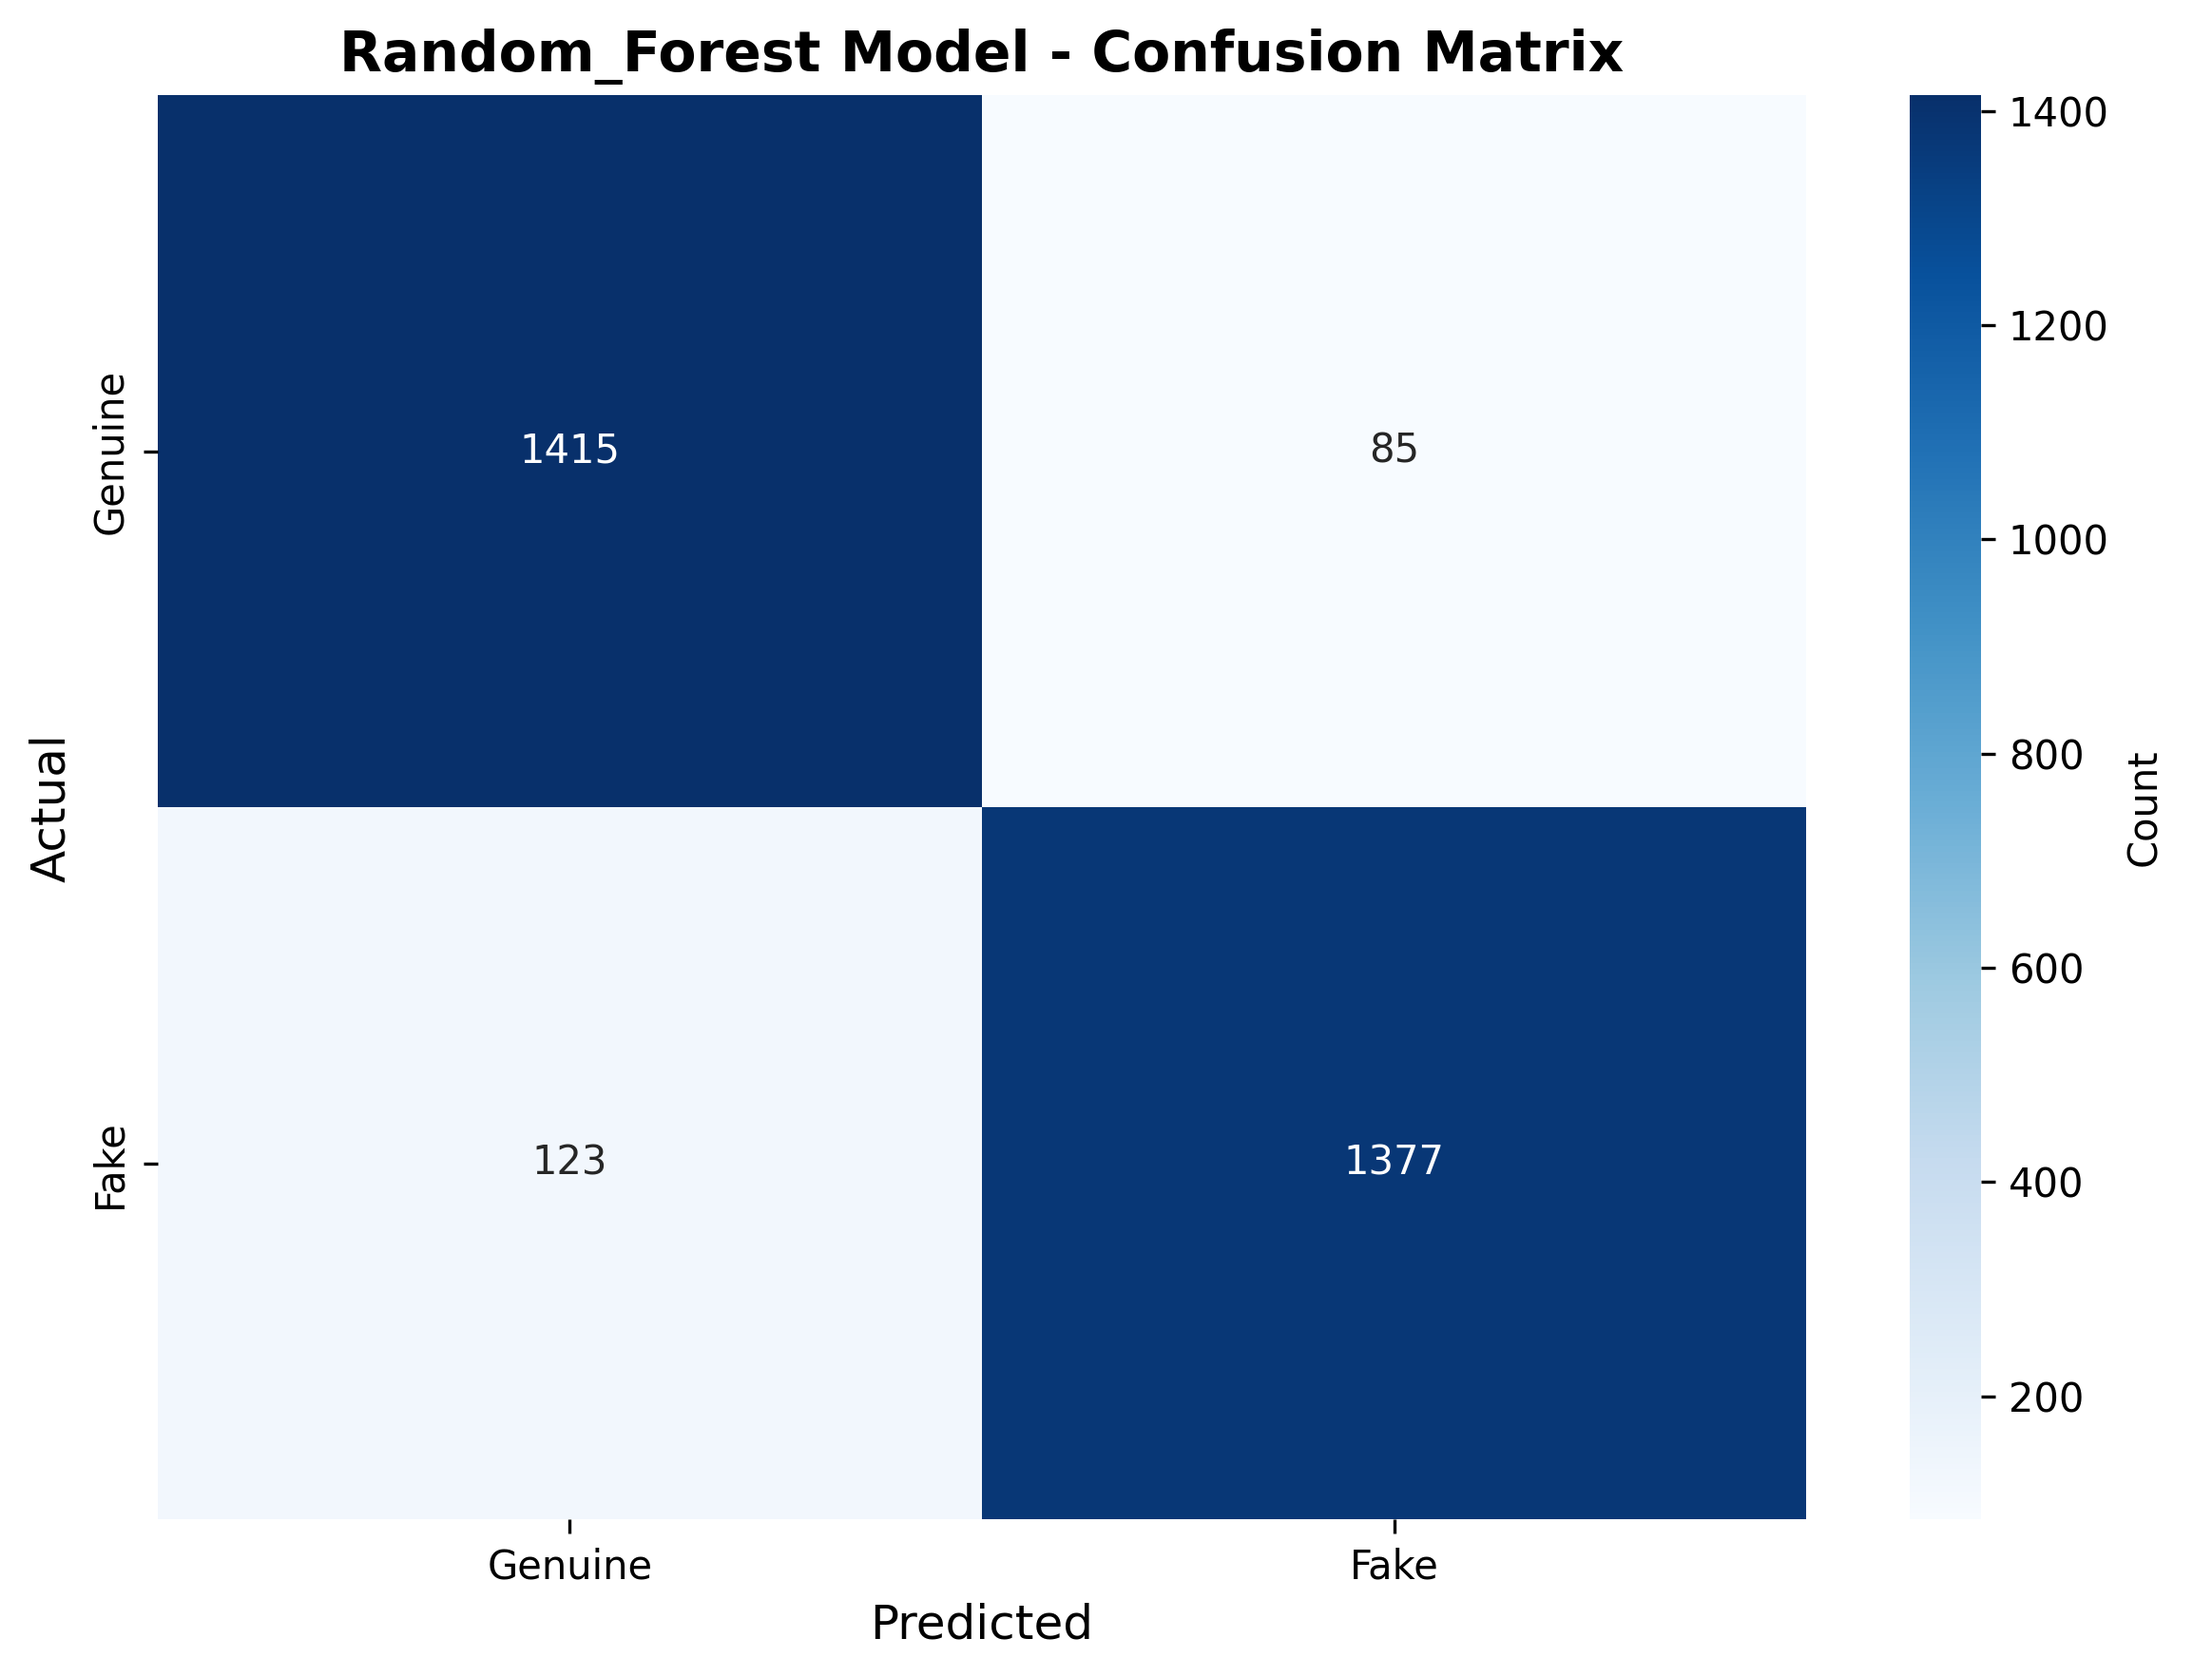
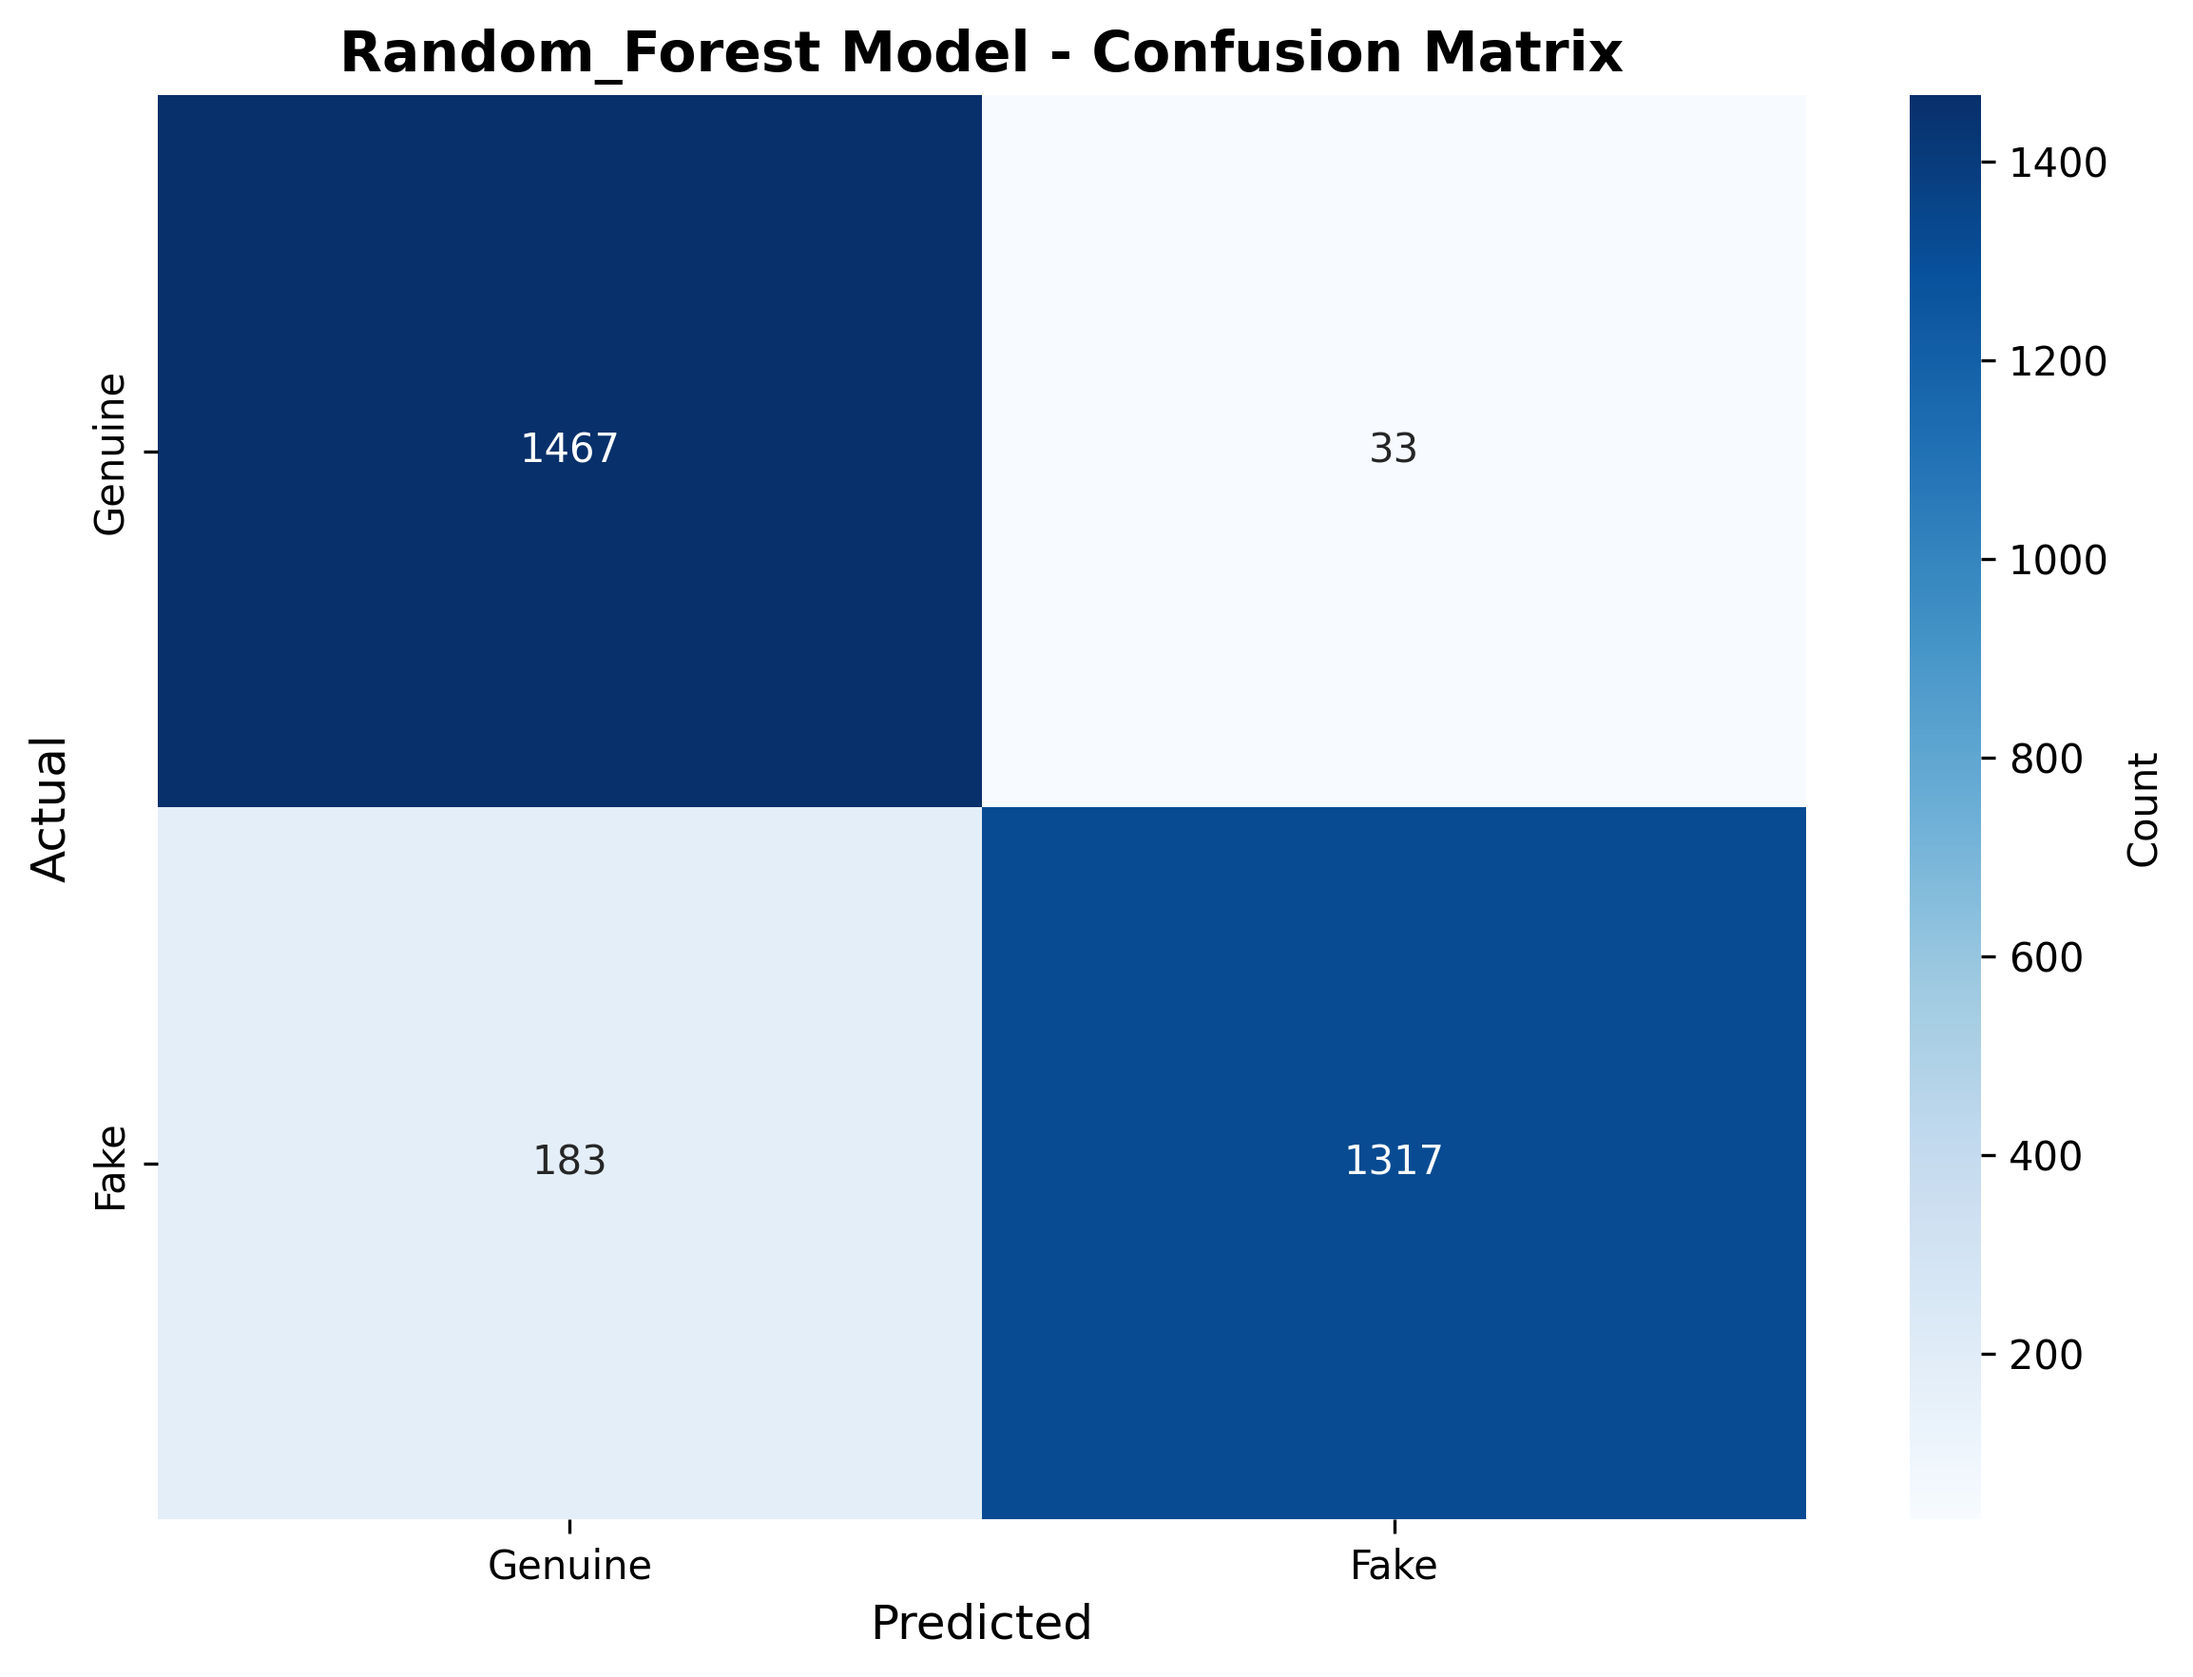
removed non significant features on svm and rf

diff --git a/reviewai/utils/fake_review_detector2.py b/reviewai/utils/fake_review_detector2.py
@@ -56,9 +56,9 @@ class FakeReviewDetector:
 
     def _load_traditional_models(self):
         try:
-            svm_path = os.path.join(self.model_folder, 'svm_model_new_with_extra.pkl')
-            rf_path = os.path.join(self.model_folder, 'rf_model_new_with_extra.pkl')
-            tfidf_path = os.path.join(self.model_folder, 'tfidf_vectorizer_new_length.pkl')
+            svm_path = os.path.join(self.model_folder, 'svm_model_significant.pkl')
+            rf_path = os.path.join(self.model_folder, 'rf_model_significant.pkl')
+            tfidf_path = os.path.join(self.model_folder, 'tfidf_vectorizer_new_length_2.pkl')
 
             for path, name in [(svm_path, 'SVM'), (rf_path, 'Random Forest'), (tfidf_path, 'TF-IDF')]:
                 if not os.path.exists(path):
@@ -144,20 +144,11 @@ class FakeReviewDetector:
             length_bucket = 2
         else:
             length_bucket = 3
-        # Emoji count
-        emoji_pattern = re.compile(
-            "[" 
-            "\U0001F600-\U0001F64F"
-            "\U0001F300-\U0001F5FF"
-            "\U0001F680-\U0001F6FF"
-            "\U0001F1E0-\U0001F1FF"
-            "]+", flags=re.UNICODE
-        )
-        emoji_count = len(emoji_pattern.findall(raw_text))
-        # Keyword flags
-        keyword_flags = [1 if kw in processed_text else 0 for kw in self.keywords]
-        # Stack features in correct order
-        extra_features = np.array([review_length, sentiment, length_bucket, emoji_count] + keyword_flags).reshape(1, -1)
+        # Only keep significant keywords
+        significant_keywords = ['fast', 'recommended', 'bad', 'fake', 'original', 'authentic']
+        keyword_flags = [1 if kw in processed_text else 0 for kw in significant_keywords]
+        # Stack features
+        extra_features = np.array([review_length, sentiment, length_bucket] + keyword_flags).reshape(1, -1)
         return extra_features
 
     def predict_single_review(self, review_text):
@@ -249,31 +240,31 @@ class FakeReviewDetector:
     
     def get_model_performance(self):
         """
-        Returns performance metrics for all models and ensemble
+        Returns updated performance metrics for all models and ensemble
         """
         return {
             'ensemble': {
-                'accuracy': 0.95,
-                'precision': 0.95,
-                'recall': 0.95,
-                'f1_score': 0.95,
+                'accuracy': 0.94,
+                'precision': 0.94,
+                'recall': 0.94,
+                'f1_score': 0.94,
                 'support': 3000,
-                'confusion_matrix': [[1399, 101], [54, 1446]],
+                'confusion_matrix': [[1384, 116], [75, 1425]],
                 'classification_report': {
-                    'genuine': {'precision': 0.96, 'recall': 0.93, 'f1-score': 0.95, 'support': 1500},
-                    'fake': {'precision': 0.93, 'recall': 0.96, 'f1-score': 0.95, 'support': 1500}
+                    'genuine': {'precision': 0.95, 'recall': 0.92, 'f1-score': 0.94, 'support': 1500},
+                    'fake': {'precision': 0.92, 'recall': 0.95, 'f1-score': 0.94, 'support': 1500}
                 }
             },
             'svm': {
-                'accuracy': 0.85,
-                'precision': 0.85,
-                'recall': 0.85,
-                'f1_score': 0.85,
+                'accuracy': 0.87,
+                'precision': 0.87,
+                'recall': 0.87,
+                'f1_score': 0.87,
                 'support': 3000,
-                'confusion_matrix': [[1160, 340], [119, 1381]],
+                'confusion_matrix': [[1320, 180], [196, 1304]],
                 'classification_report': {
-                    'genuine': {'precision': 0.91, 'recall': 0.77, 'f1-score': 0.83, 'support': 1500},
-                    'fake': {'precision': 0.80, 'recall': 0.92, 'f1-score': 0.86, 'support': 1500}
+                    'genuine': {'precision': 0.87, 'recall': 0.88, 'f1-score': 0.88, 'support': 1500},
+                    'fake': {'precision': 0.88, 'recall': 0.87, 'f1-score': 0.87, 'support': 1500}
                 }
             },
             'random_forest': {
@@ -282,22 +273,22 @@ class FakeReviewDetector:
                 'recall': 0.93,
                 'f1_score': 0.93,
                 'support': 3000,
-                'confusion_matrix': [[1415, 85], [123, 1377]],
+                'confusion_matrix': [[1467, 33], [183, 1317]],
                 'classification_report': {
-                    'genuine': {'precision': 0.92, 'recall': 0.94, 'f1-score': 0.93, 'support': 1500},
-                    'fake': {'precision': 0.94, 'recall': 0.92, 'f1-score': 0.93, 'support': 1500}
+                    'genuine': {'precision': 0.89, 'recall': 0.98, 'f1-score': 0.93, 'support': 1500},
+                    'fake': {'precision': 0.98, 'recall': 0.88, 'f1-score': 0.92, 'support': 1500}
                 }
             },
             'distilbert': {
-                'accuracy': 0.95,
-                'precision': 0.95,
-                'recall': 0.95,
-                'f1_score': 0.95,
+                'accuracy': 0.93,
+                'precision': 0.93,
+                'recall': 0.93,
+                'f1_score': 0.93,
                 'support': 3000,
-                'confusion_matrix': [[1395, 105], [56, 1444]],
+                'confusion_matrix': [[1377, 123], [74, 1426]],
                 'classification_report': {
-                    'genuine': {'precision': 0.96, 'recall': 0.93, 'f1-score': 0.95, 'support': 1500},
-                    'fake': {'precision': 0.93, 'recall': 0.96, 'f1-score': 0.95, 'support': 1500}
+                    'genuine': {'precision': 0.95, 'recall': 0.92, 'f1-score': 0.93, 'support': 1500},
+                    'fake': {'precision': 0.92, 'recall': 0.95, 'f1-score': 0.94, 'support': 1500}
                 }
             }
         }
@@ -309,14 +300,17 @@ class FakeReviewDetector:
         return {
             'ensemble_config': self.config,
             'model_versions': {
-                'svm': 'SVM with RBF kernel (new_with_extra)',
-                'random_forest': 'Random Forest 100 estimators (new_with_extra)',
+                'svm': 'SVM with RBF kernel',
+                'random_forest': 'Random Forest 500 estimators',
                 'distilbert': 'Fine-tuned DistilBERT for fake review detection',
-                'tfidf': 'TF-IDF Vectorizer (new_length)'
+                'tfidf': 'TF-IDF Vectorizer (7500 features)'
             },
-            'training_data_size': 3000,
+            'training_data_size': 15000,
             'test_data_size': 3000,
-            'features_used': ['text_length', 'word_count', 'avg_word_length', 'exclamation_count', 'question_count']
+            'features_used': [
+                'review_length', 'sentiment', 'length_bucket',
+                'kw_fast', 'kw_recommended', 'kw_bad', 'kw_fake', 'kw_original', 'kw_authentic'
+            ]
         }
 
 _detector_instance = None

diff --git a/reviewai/views.py b/reviewai/views.py
@@ -1274,11 +1274,11 @@ def admin_model_performance(request):
 
         # Prepare data for Plotly charts
         plotly_data = {
-            "models": ["ensemble", "svm", "random_forest", "distilbert"],
-            "accuracy": [0.95, 0.85, 0.93, 0.95],
-            "precision": [0.95, 0.85, 0.93, 0.95],
-            "recall": [0.95, 0.85, 0.93, 0.95],
-            "f1_score": [0.95, 0.85, 0.93, 0.95]
+            "models": list(performance_data.keys()),
+            "accuracy": [performance_data[m]["accuracy"] for m in performance_data],
+            "precision": [performance_data[m]["precision"] for m in performance_data],
+            "recall": [performance_data[m]["recall"] for m in performance_data],
+            "f1_score": [performance_data[m]["f1_score"] for m in performance_data],
         }
 
         context = {
